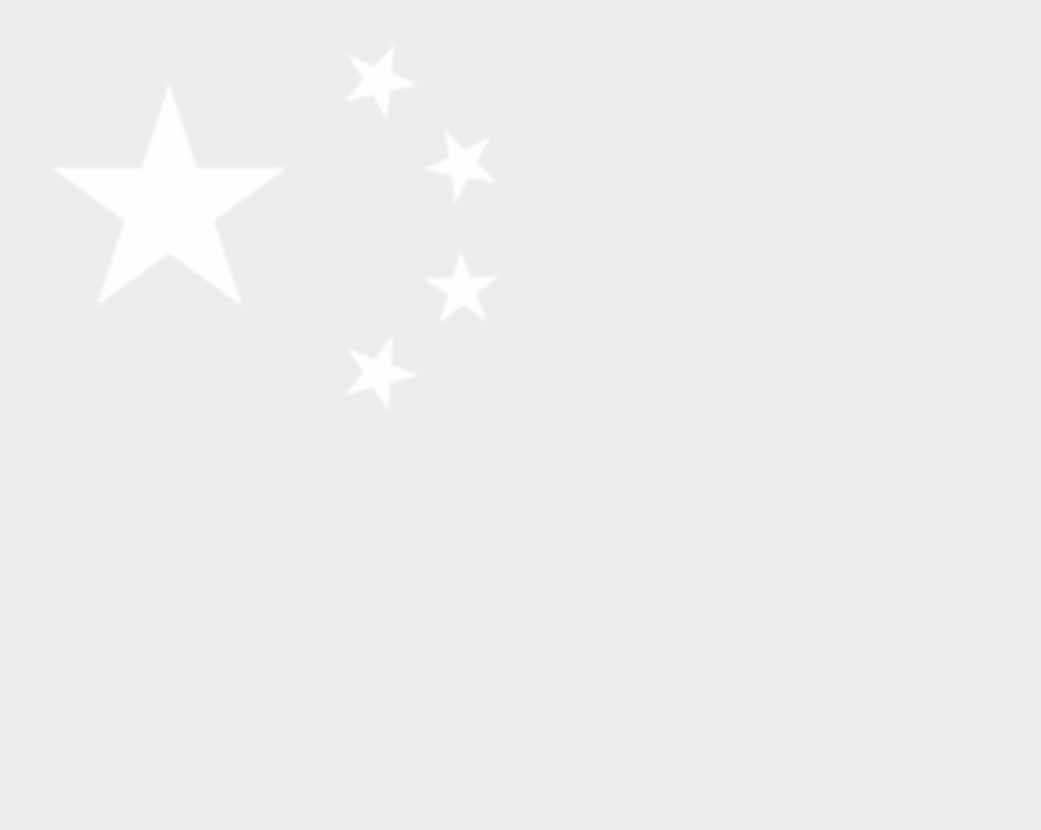
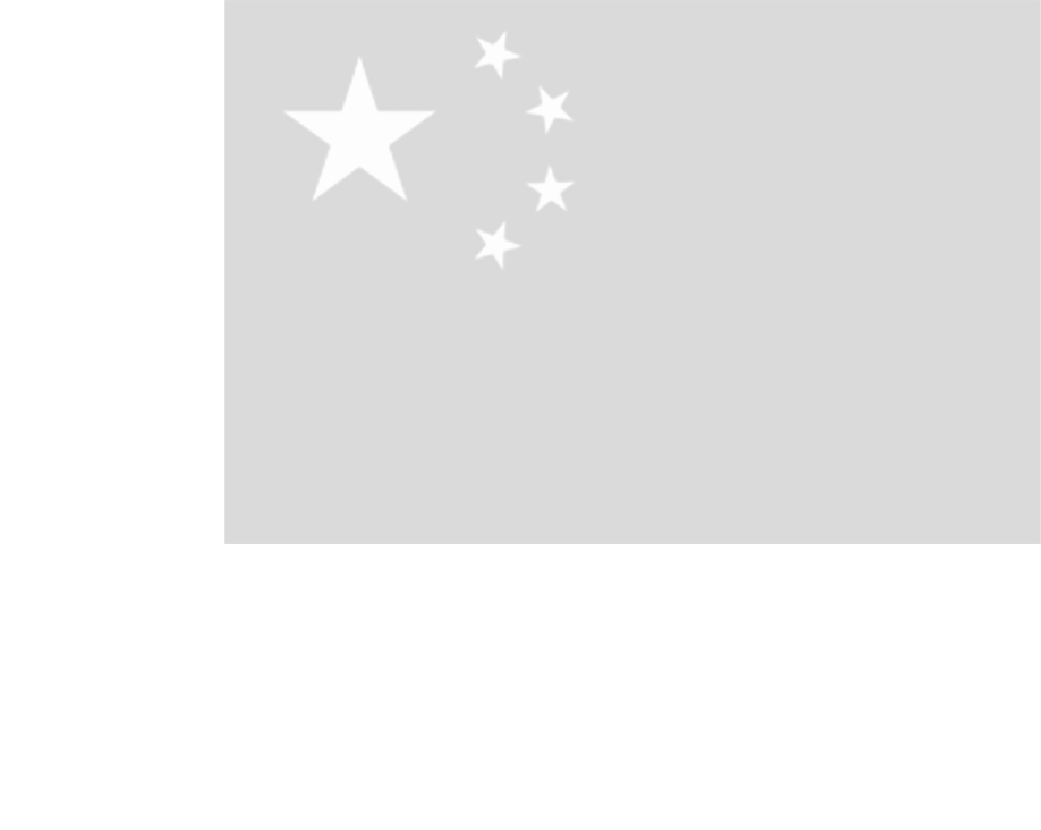
Change canvas size

diff --git a/src/style4.css b/src/style4.css
@@ -21,9 +21,12 @@ canvas {
 }
 
 .mid-container {
-    justify-content: start;
-    width: 50vw;
+    justify-content: center;
+    width: 40vw;
     padding-top: 5vh;
+    padding-left: 5vw;
+    padding-right: 5vw;
+
 }
 
 .left-container, .right-container {
@@ -33,6 +36,7 @@ canvas {
     align-items: center;
     padding-left: 3vw;
     padding-right: 3vw; 
+    justify-content:space-around;
 }
 
 .nanumsquare {

diff --git a/src/graph-fp01.js b/src/graph-fp01.js
@@ -97,7 +97,7 @@ const myChart = new Chart(ctx, {
     ],
   },
   options: {
-    aspectRatio: 1,
+    aspectRatio: 1.2,
     responsive: false,
     // maintainAspectRatio: false,
     onHover: (e, chartElement) => {

diff --git a/src/style.css b/src/style.css
@@ -1,6 +1,4 @@
 canvas {
-    width: 100vw;
-    height: 50vh;
     padding: 20px;
     background-image: url('img/bg2.png');
     background-size: 100%;
